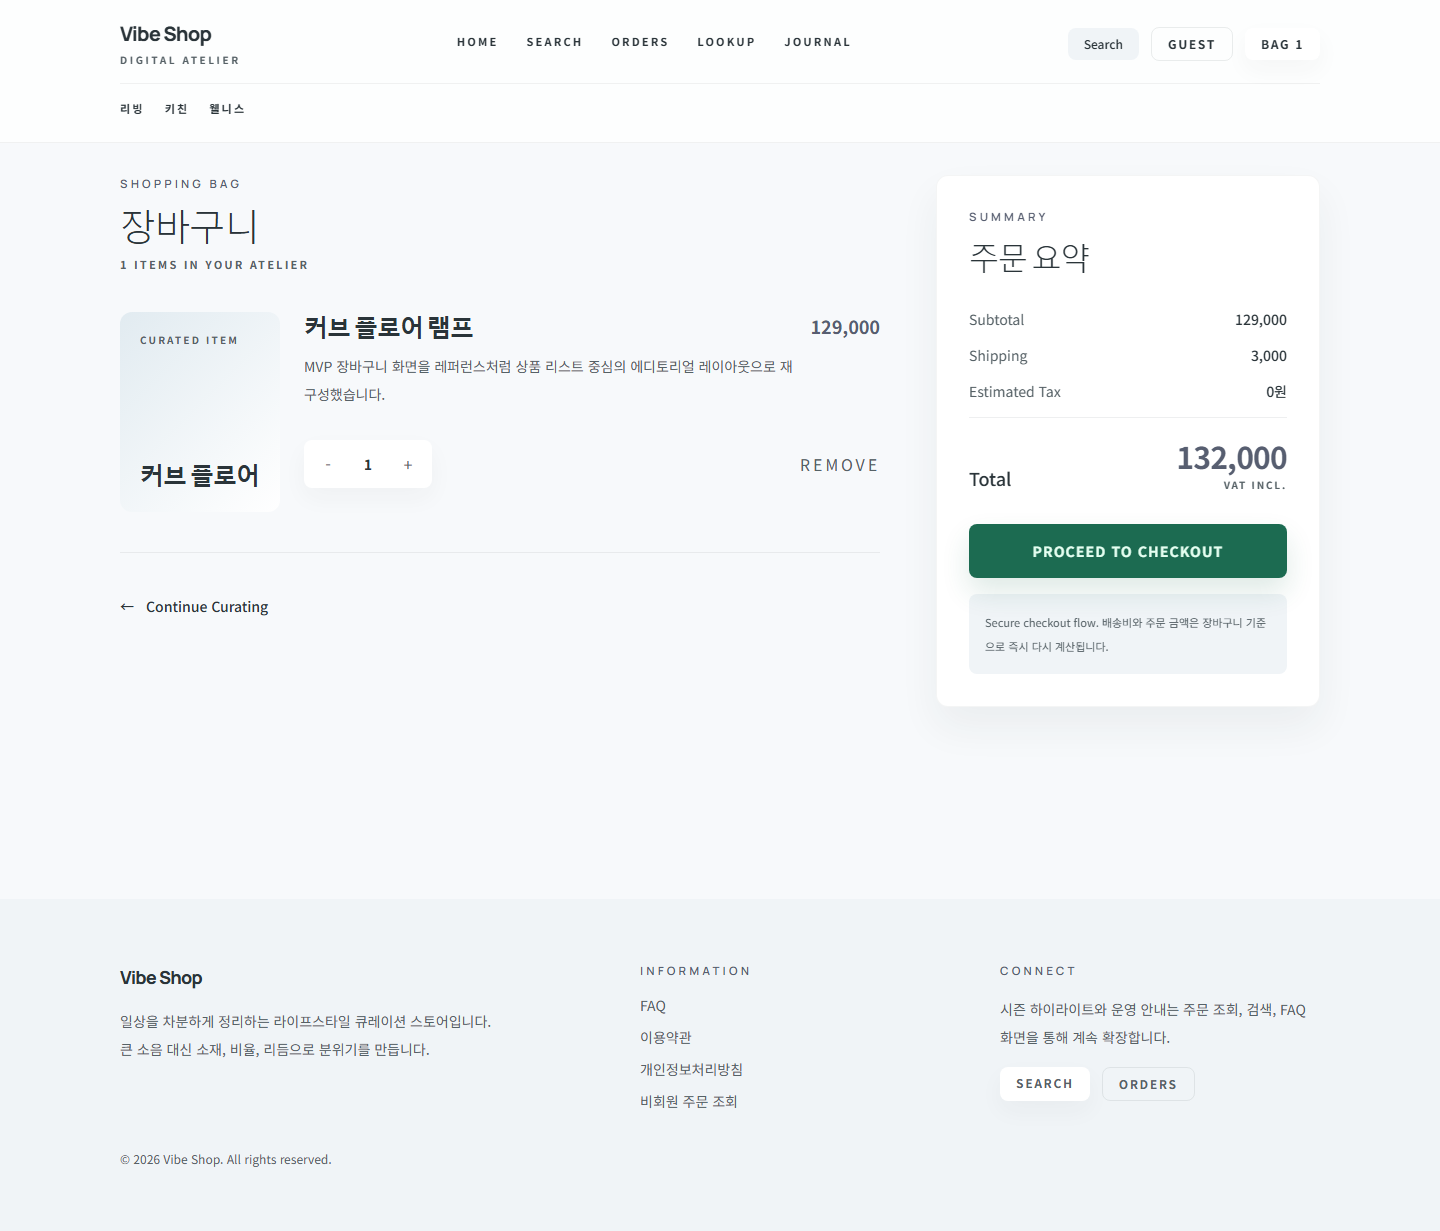
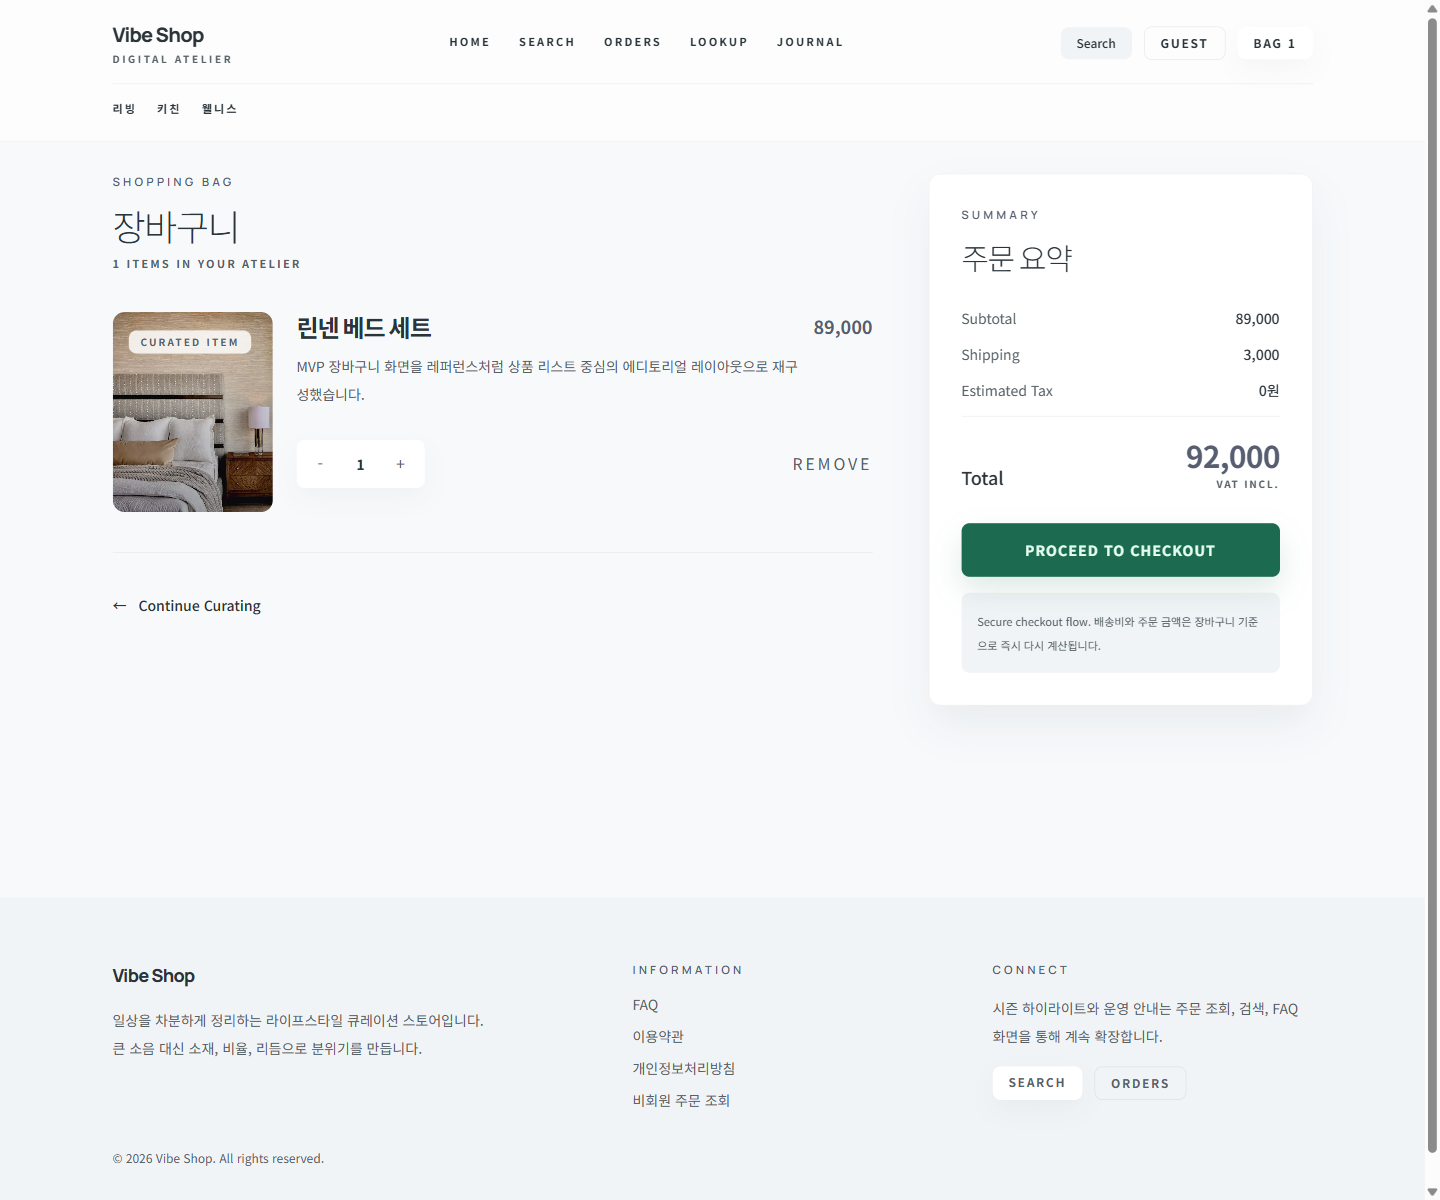
Expand catalog seed data with product images

diff --git a/apps/storefront/src/app/products/[slug]/page.tsx b/apps/storefront/src/app/products/[slug]/page.tsx
@@ -1,3 +1,4 @@
+import Image from "next/image";
 import { notFound } from "next/navigation";
 import Link from "next/link";
 
@@ -27,42 +28,57 @@ export default async function ProductPage({
     <div className="grid-shell lg:grid-cols-[1.1fr_0.9fr]">
       <section
         className="surface-card min-h-[420px] rounded-[36px] p-8 sm:p-10"
-        style={{ background: productGradient() }}
+        style={{ background: productGradient(product.accentColor) }}
       >
-        <div className="flex items-start justify-between gap-4">
-          <div>
-            <p className="display-eyebrow">{product.categoryName}</p>
-            <h1 className="display-heading mt-4 text-4xl font-semibold sm:text-5xl">
-              {product.name}
-            </h1>
+        <div className="grid gap-8 lg:grid-cols-[0.9fr_1.1fr] lg:items-start">
+          <div className="relative aspect-[4/5] overflow-hidden rounded-[28px]">
+            <Image
+              src={product.imageUrl}
+              alt={product.imageAlt}
+              fill
+              sizes="(min-width: 1024px) 36vw, 100vw"
+              className="object-cover"
+            />
+            <div className="absolute inset-0 bg-gradient-to-t from-[rgba(11,14,22,0.42)] via-transparent to-[rgba(255,255,255,0.08)]" />
           </div>
-          <span className="rounded-[999px] border border-[var(--line)] bg-[rgba(255,255,255,0.88)] px-3 py-1 text-xs font-semibold text-[var(--ink)]">
-            {product.badge}
-          </span>
-        </div>
 
-        <p className="mt-8 max-w-xl text-base leading-8 text-[var(--ink-soft)]">
-          {product.summary}
-        </p>
+          <div>
+            <div className="flex items-start justify-between gap-4">
+              <div>
+                <p className="display-eyebrow">{product.categoryName}</p>
+                <h1 className="display-heading mt-4 text-4xl font-semibold sm:text-5xl">
+                  {product.name}
+                </h1>
+              </div>
+              <span className="rounded-[999px] border border-[var(--line)] bg-[rgba(255,255,255,0.88)] px-3 py-1 text-xs font-semibold text-[var(--ink)]">
+                {product.badge}
+              </span>
+            </div>
 
-        <div className="mt-16 grid gap-4 text-sm text-[var(--ink-soft)] sm:grid-cols-3">
-          <div>
-            <p className="font-semibold">가격</p>
-            <p className="mt-2 text-lg font-semibold text-[var(--ink)]">
-              {formatPrice(product.price)}원
+            <p className="mt-8 max-w-xl text-base leading-8 text-[var(--ink-soft)]">
+              {product.summary}
             </p>
-          </div>
-          <div>
-            <p className="font-semibold">재고</p>
-            <p className="mt-2 text-lg font-semibold text-[var(--ink)]">
-              {product.stock}개
-            </p>
-          </div>
-          <div>
-            <p className="font-semibold">주문 단계</p>
-            <p className="mt-2 text-lg font-semibold text-[var(--ink)]">
-              상품 확인 → 장바구니 → 주문서 작성
-            </p>
+
+            <div className="mt-16 grid gap-4 text-sm text-[var(--ink-soft)] sm:grid-cols-3">
+              <div>
+                <p className="font-semibold">가격</p>
+                <p className="mt-2 text-lg font-semibold text-[var(--ink)]">
+                  {formatPrice(product.price)}원
+                </p>
+              </div>
+              <div>
+                <p className="font-semibold">재고</p>
+                <p className="mt-2 text-lg font-semibold text-[var(--ink)]">
+                  {product.stock}개
+                </p>
+              </div>
+              <div>
+                <p className="font-semibold">주문 단계</p>
+                <p className="mt-2 text-lg font-semibold text-[var(--ink)]">
+                  상품 확인 → 장바구니 → 주문서 작성
+                </p>
+              </div>
+            </div>
           </div>
         </div>
       </section>
@@ -86,6 +102,8 @@ export default async function ProductPage({
                 name: product.name,
                 price: product.price,
                 accentColor: product.accentColor,
+                imageUrl: product.imageUrl,
+                imageAlt: product.imageAlt,
               }}
             />
             <Link

diff --git a/apps/storefront/src/components/catalog/product-card.tsx b/apps/storefront/src/components/catalog/product-card.tsx
@@ -1,3 +1,4 @@
+import Image from "next/image";
 import Link from "next/link";
 
 import { AddToCartButton } from "@/components/cart/add-to-cart-button";
@@ -10,26 +11,38 @@ export function ProductCard({ product }: { product: ProductSummary }) {
     <article className="group w-full">
       <Link
         href={`/products/${product.slug}`}
-        className="block overflow-hidden rounded-xl"
+        className="block overflow-hidden rounded-xl border border-black/5 bg-white"
         style={{ background: productGradient(product.accentColor) }}
       >
-        <div className="flex aspect-[4/5] min-h-80 flex-col justify-between p-6 transition duration-500 group-hover:scale-[1.02]">
-          <div className="flex items-start justify-between gap-4">
-            <span className="rounded-lg bg-white/85 px-3 py-1 text-[10px] font-bold uppercase tracking-[0.18em] text-[var(--ink)]">
-              {product.badge}
-            </span>
-            <span className="text-[10px] font-semibold uppercase tracking-[0.24em] text-[var(--ink-soft)]">
-              {product.categoryName}
-            </span>
-          </div>
+        <div className="transition duration-500 group-hover:scale-[1.02]">
+          <div className="relative aspect-[4/5] overflow-hidden">
+            <Image
+              src={product.imageUrl}
+              alt={product.imageAlt}
+              fill
+              sizes="(min-width: 1280px) 22rem, (min-width: 768px) 45vw, 100vw"
+              className="object-cover"
+            />
+            <div className="absolute inset-0 bg-gradient-to-t from-[rgba(11,14,22,0.62)] via-transparent to-[rgba(255,255,255,0.06)]" />
+            <div className="absolute inset-x-0 top-0 flex items-start justify-between gap-4 p-5">
+              <span className="rounded-lg bg-white/88 px-3 py-1 text-[10px] font-bold uppercase tracking-[0.18em] text-[var(--ink)]">
+                {product.badge}
+              </span>
+              <span className="rounded-lg bg-[rgba(255,255,255,0.18)] px-3 py-1 text-[10px] font-semibold uppercase tracking-[0.24em] text-white backdrop-blur-sm">
+                {product.categoryName}
+              </span>
+            </div>
 
-          <div className="space-y-4">
-            <p className="display-heading max-w-[12rem] text-3xl font-semibold leading-[1.05] text-[var(--ink)]">
-              {product.name}
-            </p>
-            <p className="max-w-xs text-sm leading-6 text-[var(--ink-soft)]">
-              {product.summary}
-            </p>
+            <div className="absolute inset-x-0 bottom-0 p-5">
+              <div className="rounded-xl bg-[rgba(255,255,255,0.82)] p-4 shadow-[var(--shadow-soft)] backdrop-blur-sm">
+                <p className="display-heading max-w-[14rem] text-3xl font-semibold leading-[1.05] text-[var(--ink)]">
+                  {product.name}
+                </p>
+                <p className="mt-2 max-w-xs text-sm leading-6 text-[var(--ink-soft)]">
+                  {product.summary}
+                </p>
+              </div>
+            </div>
           </div>
         </div>
       </Link>
@@ -51,6 +64,8 @@ export function ProductCard({ product }: { product: ProductSummary }) {
               name: product.name,
               price: product.price,
               accentColor: product.accentColor,
+              imageUrl: product.imageUrl,
+              imageAlt: product.imageAlt,
             }}
           />
         </div>

diff --git a/apps/storefront/src/app/page.tsx b/apps/storefront/src/app/page.tsx
@@ -1,3 +1,4 @@
+import Image from "next/image";
 import Link from "next/link";
 
 import { ProductCard } from "@/components/catalog/product-card";
@@ -58,27 +59,37 @@ export default async function HomePage() {
 
         <div className="relative">
           <div
-            className="editorial-shadow min-h-[34rem] overflow-hidden rounded-xl p-8 lg:p-10"
+            className="editorial-shadow relative min-h-[34rem] overflow-hidden rounded-xl p-8 lg:p-10"
             style={{ background: productGradient(heroProduct?.accentColor) }}
           >
-            <div className="flex h-full flex-col justify-between">
+            {heroProduct ? (
+              <Image
+                src={heroProduct.imageUrl}
+                alt={heroProduct.imageAlt}
+                fill
+                sizes="(min-width: 1024px) 32rem, 100vw"
+                className="object-cover"
+              />
+            ) : null}
+            <div className="absolute inset-0 bg-gradient-to-t from-[rgba(11,14,22,0.58)] via-[rgba(11,14,22,0.12)] to-transparent" />
+            <div className="relative flex h-full flex-col justify-between">
               <div className="flex items-start justify-between gap-4">
-                <span className="rounded-lg bg-white/70 px-3 py-1 text-[10px] font-bold uppercase tracking-[0.18em] text-[var(--ink)]">
+                <span className="rounded-lg bg-white/78 px-3 py-1 text-[10px] font-bold uppercase tracking-[0.18em] text-[var(--ink)]">
                   Curated Piece
                 </span>
-                <span className="text-[10px] font-semibold uppercase tracking-[0.24em] text-[var(--ink-soft)]">
+                <span className="rounded-lg bg-[rgba(255,255,255,0.18)] px-3 py-1 text-[10px] font-semibold uppercase tracking-[0.24em] text-white backdrop-blur-sm">
                   {heroProduct?.categoryName}
                 </span>
               </div>
 
-              <div className="space-y-4">
+              <div className="max-w-sm rounded-[28px] bg-[rgba(255,255,255,0.78)] p-6 shadow-[var(--shadow-soft)] backdrop-blur-sm">
                 <p className="display-heading max-w-xs text-4xl font-semibold leading-[1.02] text-[var(--ink)]">
                   {heroProduct?.name}
                 </p>
-                <p className="max-w-sm leading-7 text-[var(--ink-soft)]">
+                <p className="mt-3 max-w-sm leading-7 text-[var(--ink-soft)]">
                   {heroProduct?.summary}
                 </p>
-                <p className="text-base font-semibold text-[var(--primary)]">
+                <p className="mt-4 text-base font-semibold text-[var(--primary)]">
                   {heroProduct ? formatPrice(heroProduct.price) : ""}
                 </p>
               </div>

diff --git a/apps/storefront/src/components/cart/cart-screen.tsx b/apps/storefront/src/components/cart/cart-screen.tsx
@@ -1,5 +1,6 @@
 "use client";
 
+import Image from "next/image";
 import Link from "next/link";
 import { useEffect, useEffectEvent, useState } from "react";
 
@@ -84,21 +85,19 @@ export function CartScreen() {
               key={item.productId}
               className="grid gap-6 border-b border-black/6 pb-10 sm:grid-cols-[10rem_minmax(0,1fr)]"
             >
-              <div
-                className="aspect-[4/5] overflow-hidden rounded-xl"
-                style={{
-                  background: `linear-gradient(135deg, ${item.accentColor}2a 0%, rgba(255,255,255,0.96) 100%)`,
-                }}
-              >
-                <div className="flex h-full flex-col justify-between p-5">
-                  <span className="text-[10px] font-semibold uppercase tracking-[0.22em] text-[var(--ink-soft)]">
+              <div className="relative aspect-[4/5] overflow-hidden rounded-xl">
+                <Image
+                  src={item.imageUrl}
+                  alt={item.imageAlt}
+                  fill
+                  sizes="10rem"
+                  className="object-cover"
+                />
+                <div className="absolute inset-0 bg-gradient-to-t from-[rgba(11,14,22,0.35)] to-transparent" />
+                <div className="absolute inset-x-0 top-0 p-4">
+                  <span className="rounded-lg bg-white/82 px-3 py-1 text-[10px] font-semibold uppercase tracking-[0.22em] text-[var(--ink-soft)]">
                     Curated Item
                   </span>
-                  <div>
-                    <p className="display-heading text-2xl font-semibold text-[var(--ink)]">
-                      {item.name.split(" ").slice(0, 2).join(" ")}
-                    </p>
-                  </div>
                 </div>
               </div>
 

diff --git a/apps/storefront/src/lib/contracts.ts b/apps/storefront/src/lib/contracts.ts
@@ -16,6 +16,8 @@ export type ProductSummary = {
   price: number;
   badge: string;
   accentColor: string;
+  imageUrl: string;
+  imageAlt: string;
 };
 
 export type ProductDetail = ProductSummary & {
@@ -111,6 +113,8 @@ export type CartProduct = {
   name: string;
   price: number;
   accentColor: string;
+  imageUrl: string;
+  imageAlt: string;
 };
 
 export type CartItem = CartProduct & {

diff --git a/apps/api/src/main/java/com/vibeshop/api/catalog/CatalogService.java b/apps/api/src/main/java/com/vibeshop/api/catalog/CatalogService.java
@@ -73,6 +73,8 @@ public class CatalogService {
             product.getPrice(),
             product.getBadge(),
             product.getAccentColor(),
+            product.getImageUrl(),
+            product.getImageAlt(),
             product.getStock()
         );
     }
@@ -97,7 +99,9 @@ public class CatalogService {
             product.getSummary(),
             product.getPrice(),
             product.getBadge(),
-            product.getAccentColor()
+            product.getAccentColor(),
+            product.getImageUrl(),
+            product.getImageAlt()
         );
     }
 

diff --git a/apps/api/src/test/java/com/vibeshop/api/order/OrderServiceTest.java b/apps/api/src/test/java/com/vibeshop/api/order/OrderServiceTest.java
@@ -51,6 +51,8 @@ class OrderServiceTest {
                 price,
                 badge,
                 accent_color,
+                image_url,
+                image_alt,
                 featured,
                 stock
             ) VALUES (
@@ -63,6 +65,8 @@ class OrderServiceTest {
                 89000,
                 'BEST',
                 '#29339b',
+                '/images/products/living-01.jpg',
+                '린넨 베드 세트 상품 이미지',
                 TRUE,
                 10
             )

diff --git a/apps/api/src/test/java/com/vibeshop/api/cart/CartServiceTest.java b/apps/api/src/test/java/com/vibeshop/api/cart/CartServiceTest.java
@@ -43,6 +43,8 @@ class CartServiceTest {
                 price,
                 badge,
                 accent_color,
+                image_url,
+                image_alt,
                 featured,
                 stock
             ) VALUES (
@@ -55,6 +57,8 @@ class CartServiceTest {
                 89000,
                 'BEST',
                 '#29339b',
+                '/images/products/living-01.jpg',
+                '린넨 베드 세트 상품 이미지',
                 TRUE,
                 10
             )

diff --git a/apps/api/src/main/java/com/vibeshop/api/catalog/Product.java b/apps/api/src/main/java/com/vibeshop/api/catalog/Product.java
@@ -51,6 +51,12 @@ public class Product {
     @Column(name = "accent_color", nullable = false, length = 20)
     private String accentColor;
 
+    @Column(name = "image_url", nullable = false, length = 255)
+    private String imageUrl;
+
+    @Column(name = "image_alt", nullable = false, length = 255)
+    private String imageAlt;
+
     @Column(nullable = false)
     private boolean featured;
 

diff --git a/apps/api/src/main/java/com/vibeshop/api/cart/CartService.java b/apps/api/src/main/java/com/vibeshop/api/cart/CartService.java
@@ -96,6 +96,8 @@ public class CartService {
                 item.getProduct().getName(),
                 item.getProduct().getPrice(),
                 item.getProduct().getAccentColor(),
+                item.getProduct().getImageUrl(),
+                item.getProduct().getImageAlt(),
                 item.getQuantity()
             ))
             .toList();

diff --git a/apps/api/src/main/java/com/vibeshop/api/cart/CartDtos.java b/apps/api/src/main/java/com/vibeshop/api/cart/CartDtos.java
@@ -23,6 +23,8 @@ public final class CartDtos {
         String name,
         BigDecimal price,
         String accentColor,
+        String imageUrl,
+        String imageAlt,
         int quantity
     ) {
     }

diff --git a/apps/api/src/main/java/com/vibeshop/api/catalog/ProductSummary.java b/apps/api/src/main/java/com/vibeshop/api/catalog/ProductSummary.java
@@ -11,7 +11,8 @@ public record ProductSummary(
     String summary,
     BigDecimal price,
     String badge,
-    String accentColor
+    String accentColor,
+    String imageUrl,
+    String imageAlt
 ) {
 }
-
